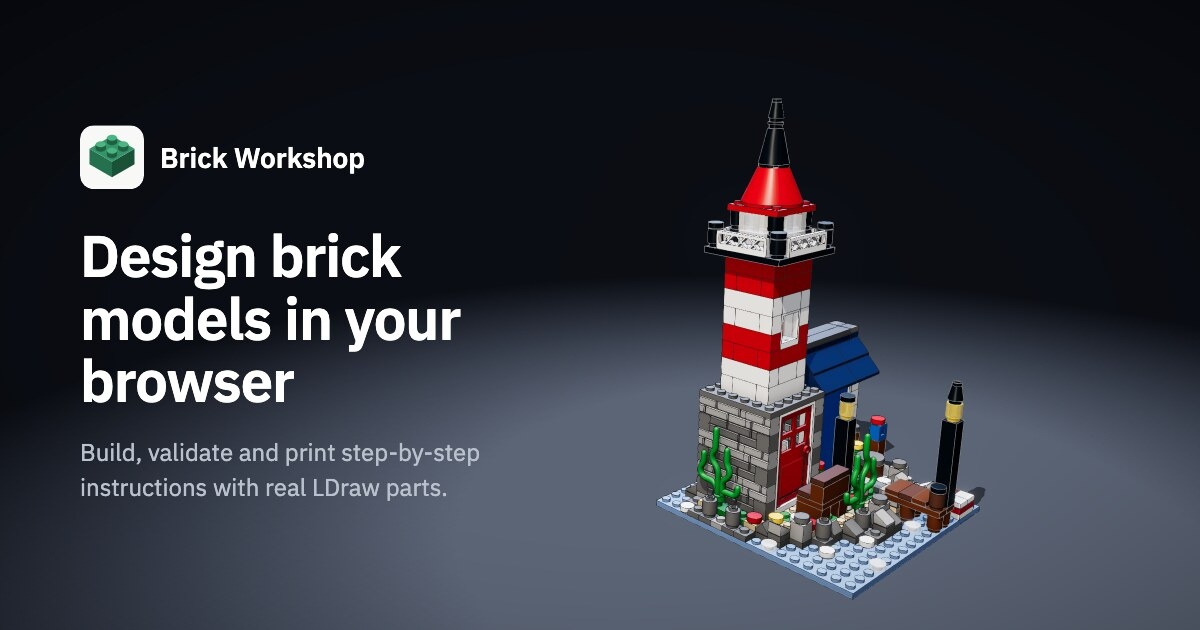
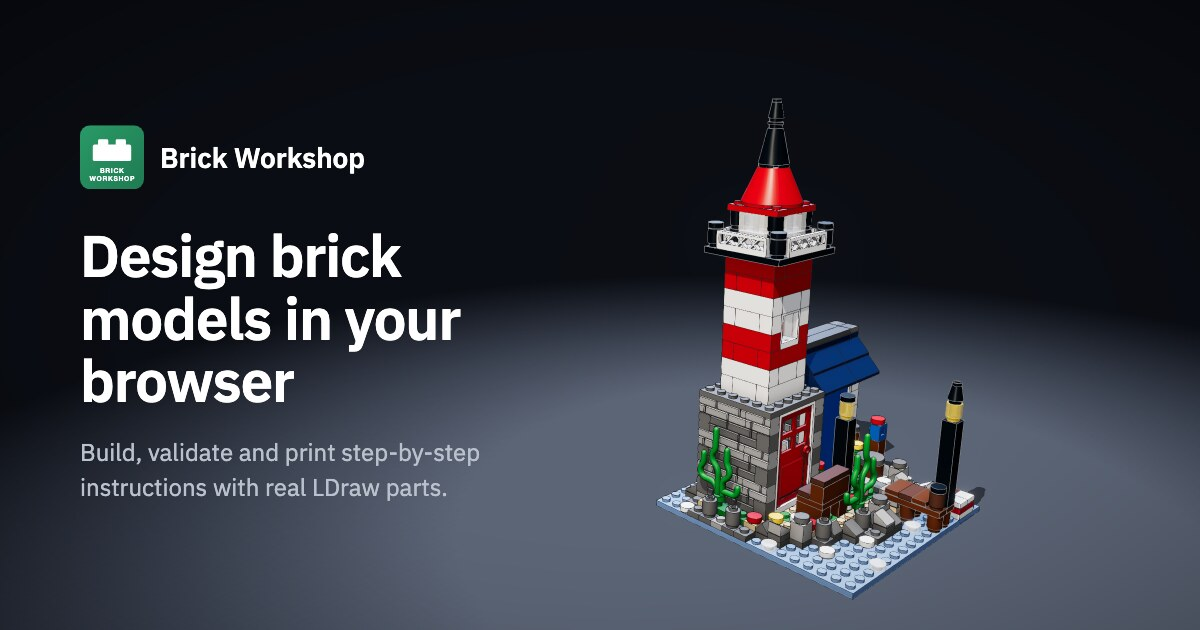
feat: show the box art brand mark on the social preview image
Re-render the Open Graph card with the new logo and version the image
URL so link previews fetch the updated card.

Changed region(s): [[0.0617, 0.181, 0.1233, 0.3016]]

diff --git a/apps/web/index.html b/apps/web/index.html
@@ -22,7 +22,7 @@
     <meta property="og:url" content="https://brick-workshop.larsvanbraam.nl/" />
     <meta
       property="og:image"
-      content="https://brick-workshop.larsvanbraam.nl/og-image.jpg"
+      content="https://brick-workshop.larsvanbraam.nl/og-image.jpg?v=2"
     />
     <meta property="og:image:width" content="1200" />
     <meta property="og:image:height" content="630" />
@@ -38,7 +38,7 @@
     />
     <meta
       name="twitter:image"
-      content="https://brick-workshop.larsvanbraam.nl/og-image.jpg"
+      content="https://brick-workshop.larsvanbraam.nl/og-image.jpg?v=2"
     />
     <style>
       #workshop-loading {

diff --git a/apps/web/instructions.html b/apps/web/instructions.html
@@ -22,7 +22,7 @@
     />
     <meta
       property="og:image"
-      content="https://brick-workshop.larsvanbraam.nl/og-image.jpg"
+      content="https://brick-workshop.larsvanbraam.nl/og-image.jpg?v=2"
     />
     <meta property="og:image:width" content="1200" />
     <meta property="og:image:height" content="630" />
@@ -38,7 +38,7 @@
     />
     <meta
       name="twitter:image"
-      content="https://brick-workshop.larsvanbraam.nl/og-image.jpg"
+      content="https://brick-workshop.larsvanbraam.nl/og-image.jpg?v=2"
     />
   </head>
   <body>
